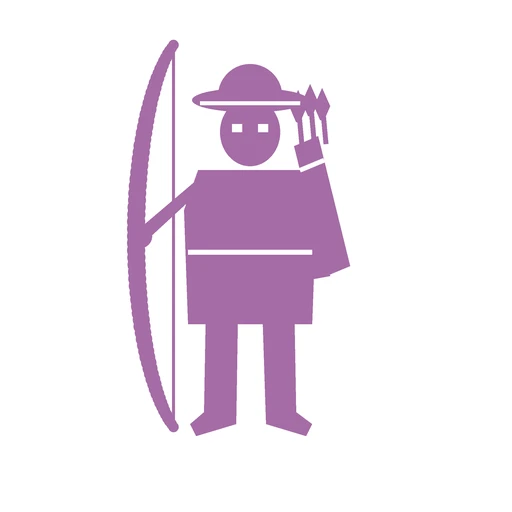
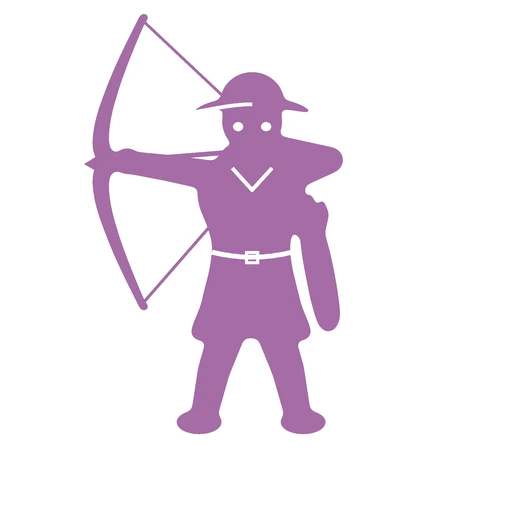
Lion Kingdom: the longbowman redrawn with curves, drawing his bow
A wide stance, a belted tunic flaring to the knees, a kettle hat with a curved brim, the bow arm out and the string drawn to the cheek, and every corner rounded, so he no longer looks built of boxes.

Claude-Session: https://claude.ai/code/session_01HBp1f2UVRcVz76SBztKoo9

Changed region(s): [[0.1562, 0.0312, 0.6875, 0.8438]]

diff --git a/haunt-roll-fail/nort/tools/lion-warriors.py b/haunt-roll-fail/nort/tools/lion-warriors.py
@@ -65,46 +65,84 @@ def sword_details(d, colour, detail):
     d.line(p((198, 214), (198, 336)), fill=detail, width=10 * S)
     d.line(p((156, 252), (240, 252)), fill=detail, width=10 * S)
 
-# --- the longbowman: kettle hat, a longbow as tall as he is, a quiver of arrows on his back
-BOW = (196, 236, 60, 206)   # the bow's arc: centre x, centre y, half width, half height
+# --- the longbowman: kettle hat, drawing a longbow, a quiver of arrows at his hip; drawn with curves and then rounded, so he
+# isn't built of boxes (Gman, 2026-10-24)
+def curve(pts, n=12):
+    # a closed Catmull-Rom curve through the points
+    out = []
+    for i in range(len(pts)):
+        p0, p1, p2, p3 = pts[i - 1], pts[i], pts[(i + 1) % len(pts)], pts[(i + 2) % len(pts)]
+        for k in range(n):
+            t = k / n
+            out.append(tuple(0.5 * (2 * p1[j] + (p2[j] - p0[j]) * t + (2 * p0[j] - 5 * p1[j] + 4 * p2[j] - p3[j]) * t * t + (3 * p1[j] - p0[j] - 3 * p2[j] + p3[j]) * t ** 3) for j in (0, 1)))
+    return out
 
-def bow_point(a):
-    cx, cy, rx, ry = BOW
-    return (cx + rx * math.cos(math.radians(a)), cy + ry * math.sin(math.radians(a)))
+def limb(d, colour, pts, r0, r1):
+    # a tapered limb along a path, thicker at its start
+    for i in range(len(pts) - 1):
+        (x0, y0), (x1, y1) = pts[i], pts[i + 1]
+        for k in range(21):
+            t = (i + k / 20) / (len(pts) - 1)
+            x, y = x0 + (x1 - x0) * k / 20, y0 + (y1 - y0) * k / 20
+            r = r0 + (r1 - r0) * t
+            d.ellipse(p((x - r, y - r), (x + r, y + r)), fill=colour)
+
+def bezier(a, c, b, n=60):
+    return [((1 - t) ** 2 * a[0] + 2 * (1 - t) * t * c[0] + t * t * b[0], (1 - t) ** 2 * a[1] + 2 * (1 - t) * t * c[1] + t * t * b[1]) for t in (k / n for k in range(n + 1))]
+
+TOP, GRIP, BOTTOM, HAND = (142, 20), (118, 162), (142, 304), (278, 148)
 
 def bow_shapes(d, colour, detail):
-    body(d, colour)
-    # Quiver behind the right shoulder, and the arrows' shafts and fletchings above it
-    d.polygon(p((294, 146), (318, 136), (350, 266), (326, 276)), fill=colour)
-    for x, y in ((298, 102), (310, 96), (322, 100)):
-        d.line(p((x + 4, y + 44), (x, y)), fill=colour, width=5 * S)
-        d.polygon(p((x - 8, y + 6), (x, y - 12), (x + 8, y + 6), (x + 2, y + 20), (x - 2, y + 20)), fill=colour)
-    # Head and a kettle hat: a dome with a wide brim
-    d.ellipse(p((220, 98), (280, 166)), fill=colour)
-    d.pieslice(p((218, 64), (282, 128)), 180, 360, fill=colour)
-    d.ellipse(p((192, 88), (308, 112)), fill=colour)
-    # Right arm down to the hip, left arm out to the bow's grip
-    d.polygon(p((296, 174), (316, 182), (330, 276), (308, 280)), fill=colour)
-    grip = bow_point(180)
-    d.polygon(p((206, 172), (190, 200), (grip[0] + 2, grip[1] + 12), (grip[0] + 4, grip[1] - 8)), fill=colour)
-    d.ellipse(p((grip[0] - 8, grip[1] - 12), (grip[0] + 16, grip[1] + 12)), fill=colour)
-    # The longbow, thicker at the grip, and its string
-    cx, cy, rx, ry = BOW
-    for a in range(112, 249, 2):
-        x, y = bow_point(a)
-        r = 5 + 4 * math.cos(math.radians((a - 180) * 1.3))
-        d.ellipse(p((x - r, y - r), (x + r, y + r)), fill=colour)
-    d.line(p(bow_point(112), bow_point(248)), fill=colour, width=3 * S)
+    m = Image.new('L', (N, N))
+    e = ImageDraw.Draw(m)
+    # Legs in a wide stance, and the feet turned out
+    limb(e, 255, [(232, 318), (214, 370), (204, 416)], 19, 13)
+    limb(e, 255, [(270, 318), (288, 370), (298, 416)], 19, 13)
+    e.ellipse(p((176, 410), (222, 434)), fill=255)
+    e.ellipse(p((280, 410), (326, 434)), fill=255)
+    # Tunic: broad shoulders, a belted waist, a skirt flaring to the knees
+    e.polygon(p(*curve([(204, 172), (228, 158), (276, 158), (300, 172), (304, 200), (290, 246), (300, 300), (310, 336), (276, 342), (250, 338),
+        (224, 342), (192, 336), (202, 300), (212, 246), (198, 200)])), fill=255)
+    # Neck, head, kettle hat: a dome and a brim curving down at its ends
+    e.ellipse(p((236, 136), (268, 168)), fill=255)
+    e.polygon(p((206, 172), (226, 146), (278, 146), (298, 172)), fill=255)
+    e.ellipse(p((222, 90), (282, 152)), fill=255)
+    e.pieslice(p((220, 72), (284, 132)), 180, 360, fill=255)
+    e.polygon(p(*curve([(188, 114), (214, 101), (252, 98), (290, 101), (316, 114), (290, 110), (252, 108), (214, 110)], 8)), fill=255)
+    # Bow arm held out to the grip, and the drawing arm with its elbow raised behind
+    limb(e, 255, [(214, 176), (168, 168), (126, 162)], 15, 11)
+    e.ellipse(p((GRIP[0] - 4, GRIP[1] - 14), (GRIP[0] + 22, GRIP[1] + 12)), fill=255)
+    limb(e, 255, [(290, 176), (330, 160), (HAND[0] + 6, HAND[1])], 15, 11)
+    e.ellipse(p((HAND[0] - 10, HAND[1] - 12), (HAND[0] + 14, HAND[1] + 12)), fill=255)
+    # Quiver at the right hip, with three fletchings showing
+    e.polygon(p(*curve([(300, 232), (322, 226), (340, 316), (318, 324)], 6)), fill=255)
+    for x, y in ((298, 206), (310, 200), (322, 206)):
+        e.polygon(p((x - 7, y + 8), (x, y - 10), (x + 7, y + 8), (x + 2, y + 30), (x - 2, y + 30)), fill=255)
+    # The longbow, thick at the grip and thin at the tips, with small recurved tips
+    pts = bezier(TOP, (74, 162), GRIP) + bezier(GRIP, (74, 162), BOTTOM)[1:]
+    for i, (x, y) in enumerate(pts):
+        r = 4 + 5 * math.sin(math.pi * i / (len(pts) - 1))
+        e.ellipse(p((x - r, y - r), (x + r, y + r)), fill=255)
+    for (x, y), dy in ((TOP, 1), (BOTTOM, -1)):
+        e.ellipse(p((x - 3, y - 3 * dy - 4), (x + 7, y - 3 * dy + 4)), fill=255)
+    # Rounded: every corner softened
+    m = m.filter(ImageFilter.GaussianBlur(3 * S)).point(lambda v: 255 if v > 128 else 0)
+    d.bitmap((0, 0), m, fill=colour)
+    # The string drawn back to the hand, and the arrow on it, its head past the bow
+    d.line(p(TOP, HAND, BOTTOM), fill=colour, width=3 * S)
+    d.line(p((HAND[0] + 4, HAND[1]), (96, 163)), fill=colour, width=5 * S)
+    d.polygon(p((84, 164), (100, 154), (98, 172)), fill=colour)
 
 def bow_details(d, colour, detail):
-    w = 5 * S
-    # The hat's brim edge, and the eyes under it
-    d.line(p((200, 103), (300, 103)), fill=detail, width=4 * S)
-    d.rectangle(p((232, 124), (242, 132)), fill=detail)
-    d.rectangle(p((258, 124), (268, 132)), fill=detail)
-    # Belt, the tunic's hem, the quiver's band
-    d.line(p((188, 252), (312, 252)), fill=detail, width=w)
-    d.line(p((300, 170), (324, 160)), fill=detail, width=w)
+    w = 4 * S
+    # The hat's brim edge and the eyes
+    d.line(p(*curve([(196, 112), (252, 104), (308, 112), (252, 106)], 8)[:9]), fill=detail, width=w)
+    d.ellipse(p((233, 122), (243, 131)), fill=detail)
+    d.ellipse(p((261, 122), (271, 131)), fill=detail)
+    # The tunic's collar, the belt and its buckle
+    d.line(p((232, 168), (252, 190), (272, 168)), fill=detail, width=w, joint='curve')
+    d.line(p(*bezier((212, 252), (252, 262), (292, 252), 20)), fill=detail, width=5 * S)
+    d.rectangle(p((245, 251), (259, 264)), outline=detail, width=3 * S)
 
 def draw(shapes, details, colour, detail):
     sil = Image.new('L', (N, N))
